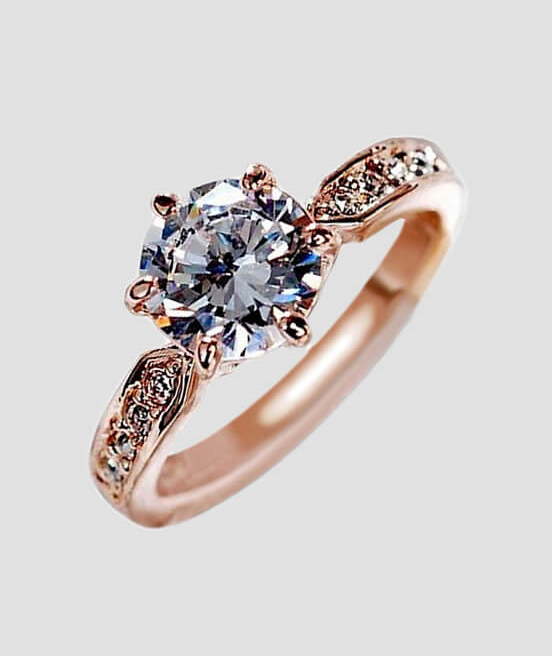
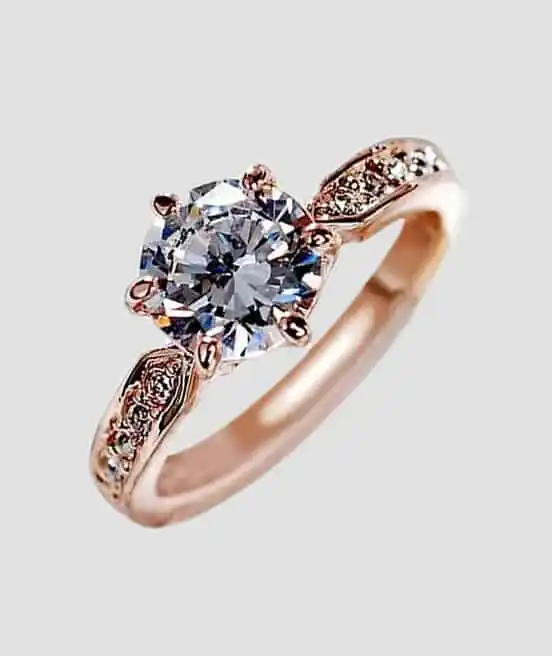
bajada de calidad

diff --git a/Proyecto_AAA/Proyecto.html b/Proyecto_AAA/Proyecto.html
@@ -244,7 +244,7 @@
                                     <div class="new">NEW</div>
                                     <div class="sale">SALE</div>
                                 </div>
-                                <img src="Imagenes/Anillo1.jpg" alt="Producto">
+                                <img src="Imagenes/Anillo1.webp" alt="Producto">
                             </div>
                             <h4>Austrian Crystals Engagement Jewelry Ring</h4>
                             <div class="price">$285.00</div>
